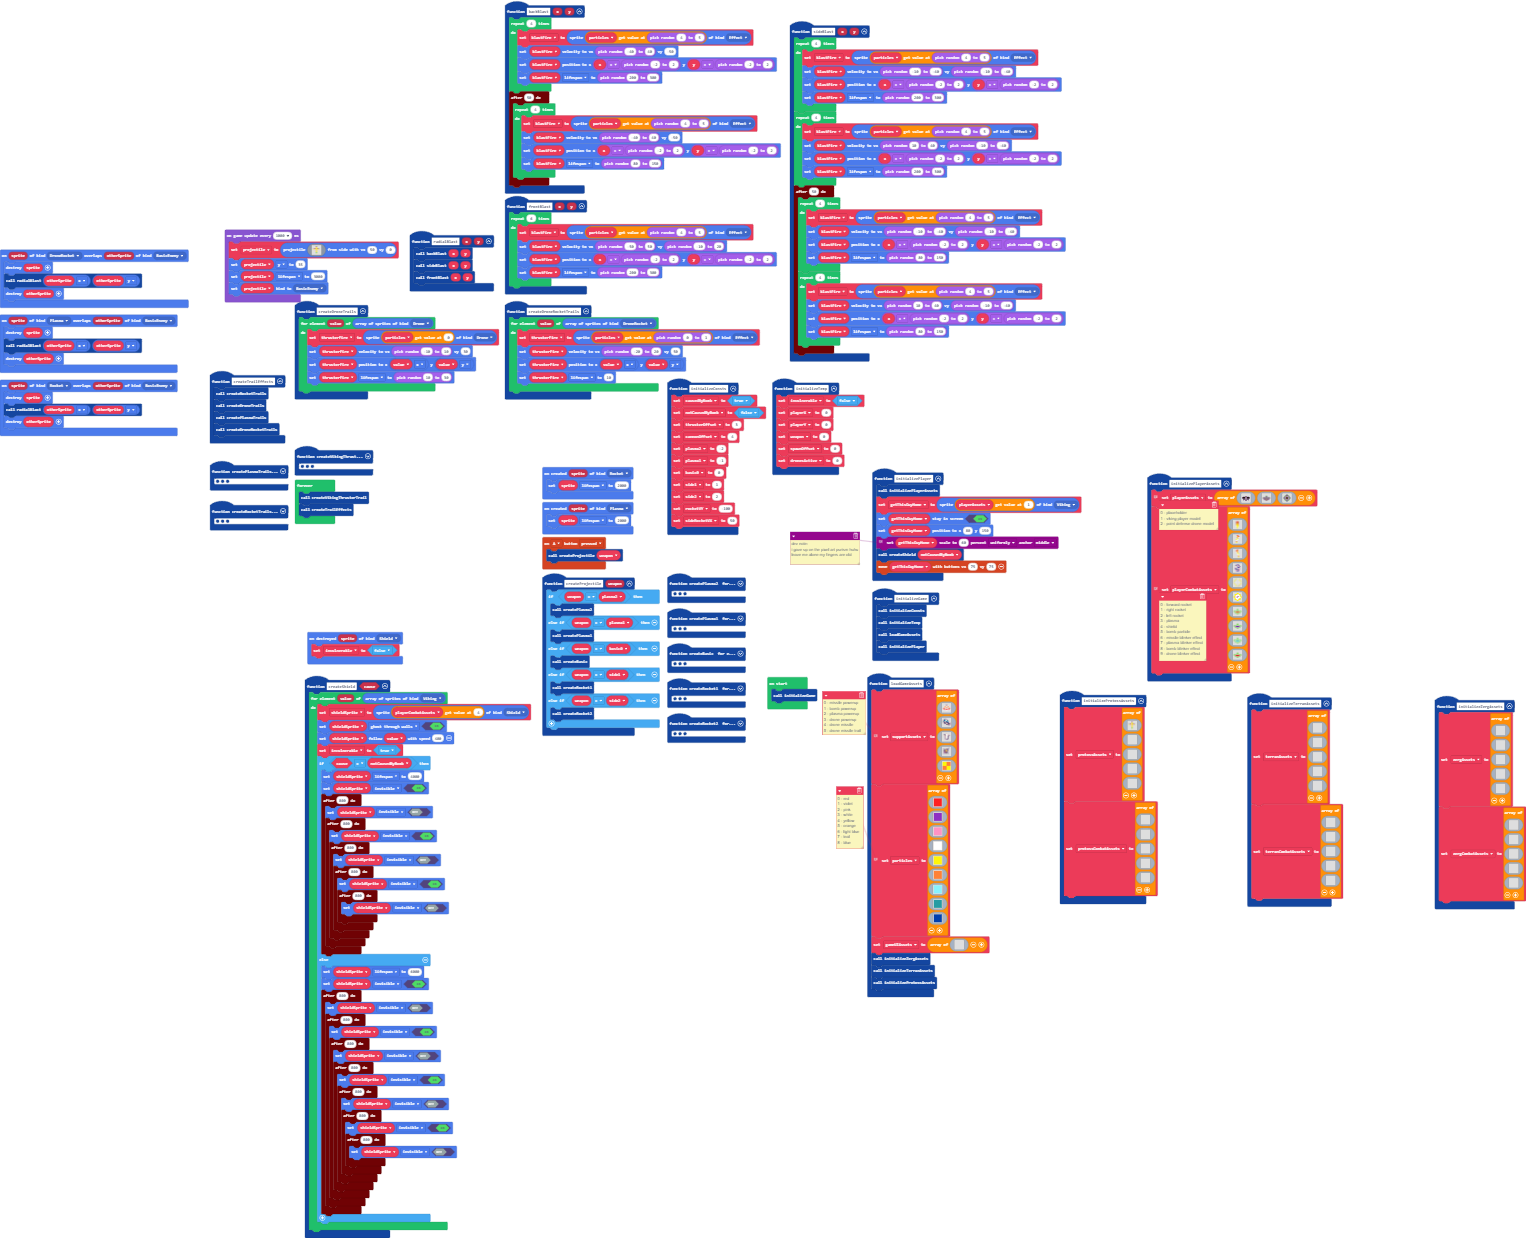
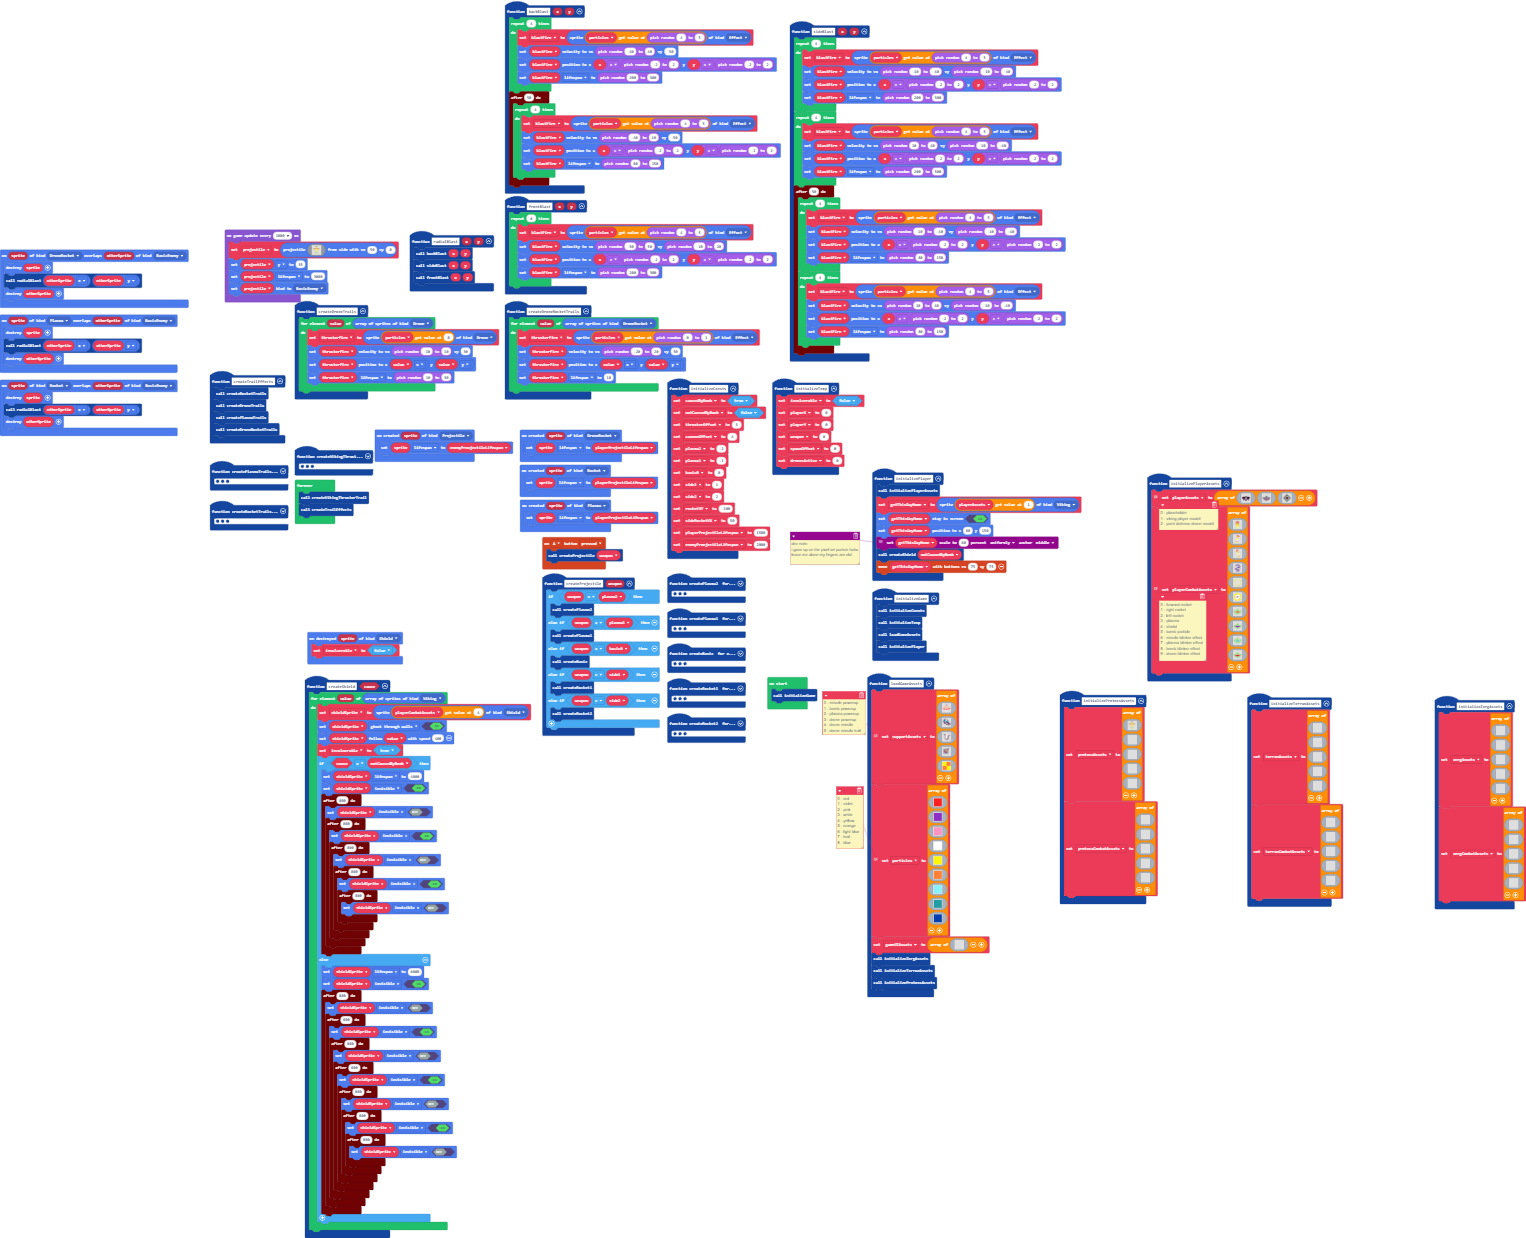
created lifespan constant

Changed region(s): [[0.2464, 0.3376, 0.4312, 0.4297], [0.4312, 0.399, 0.5236, 0.4604]]

diff --git a/main.ts b/main.ts
@@ -57,7 +57,7 @@ function createProjectile (weapon: number) {
     }
 }
 sprites.onCreated(SpriteKind.Rocket, function (sprite) {
-    sprite.lifespan = 2000
+    sprite.lifespan = playerProjectileLifespan
 })
 function createPlasma2 () {
     for (let value of sprites.allOfKind(SpriteKind.Viking)) {
@@ -326,6 +326,8 @@ function initializeConsts () {
     side2 = 2
     rocketVY = -100
     sideRocketVX = 50
+    playerProjectileLifespan = 1500
+    enemyProojectileLifespan = 2000
 }
 function createRocketTrails () {
     for (let value of sprites.allOfKind(SpriteKind.Rocket)) {
@@ -387,7 +389,7 @@ function createShield (cause: boolean) {
     }
 }
 sprites.onCreated(SpriteKind.Plasma, function (sprite) {
-    sprite.lifespan = 2000
+    sprite.lifespan = playerProjectileLifespan
 })
 function createRocket1 () {
     for (let value of sprites.allOfKind(SpriteKind.Viking)) {
@@ -1164,6 +1166,9 @@ function initializeProtossAssets () {
         `
     ]
 }
+sprites.onCreated(SpriteKind.Projectile, function (sprite) {
+    sprite.lifespan = enemyProojectileLifespan
+})
 function loadGameAssets () {
     // 0 - missile powerup
     // 1 - bomb powerup
@@ -1305,6 +1310,9 @@ function createTrailEffects () {
     createPlasmaTrails()
     createDroneRocketTrails()
 }
+sprites.onCreated(SpriteKind.DroneRocket, function (sprite) {
+    sprite.lifespan = playerProjectileLifespan
+})
 let projectile: Sprite = null
 let gameUIAssets: Image[] = []
 let supportAssets: Image[] = []
@@ -1318,6 +1326,7 @@ let zergAssets: Image[] = []
 let thrusterEffectOffset = 0
 let shieldSprite: Sprite = null
 let thrusterFire: Sprite = null
+let enemyProojectileLifespan = 0
 let thrusterOffset = 0
 let causedByBomb = false
 let invulnerable = false
@@ -1330,6 +1339,7 @@ let getThisGuyHome: Sprite = null
 let particles2: Image[] = []
 let blastFire: Sprite = null
 let plasma: Sprite = null
+let playerProjectileLifespan = 0
 let side2 = 0
 let side1 = 0
 let basic0 = 0
